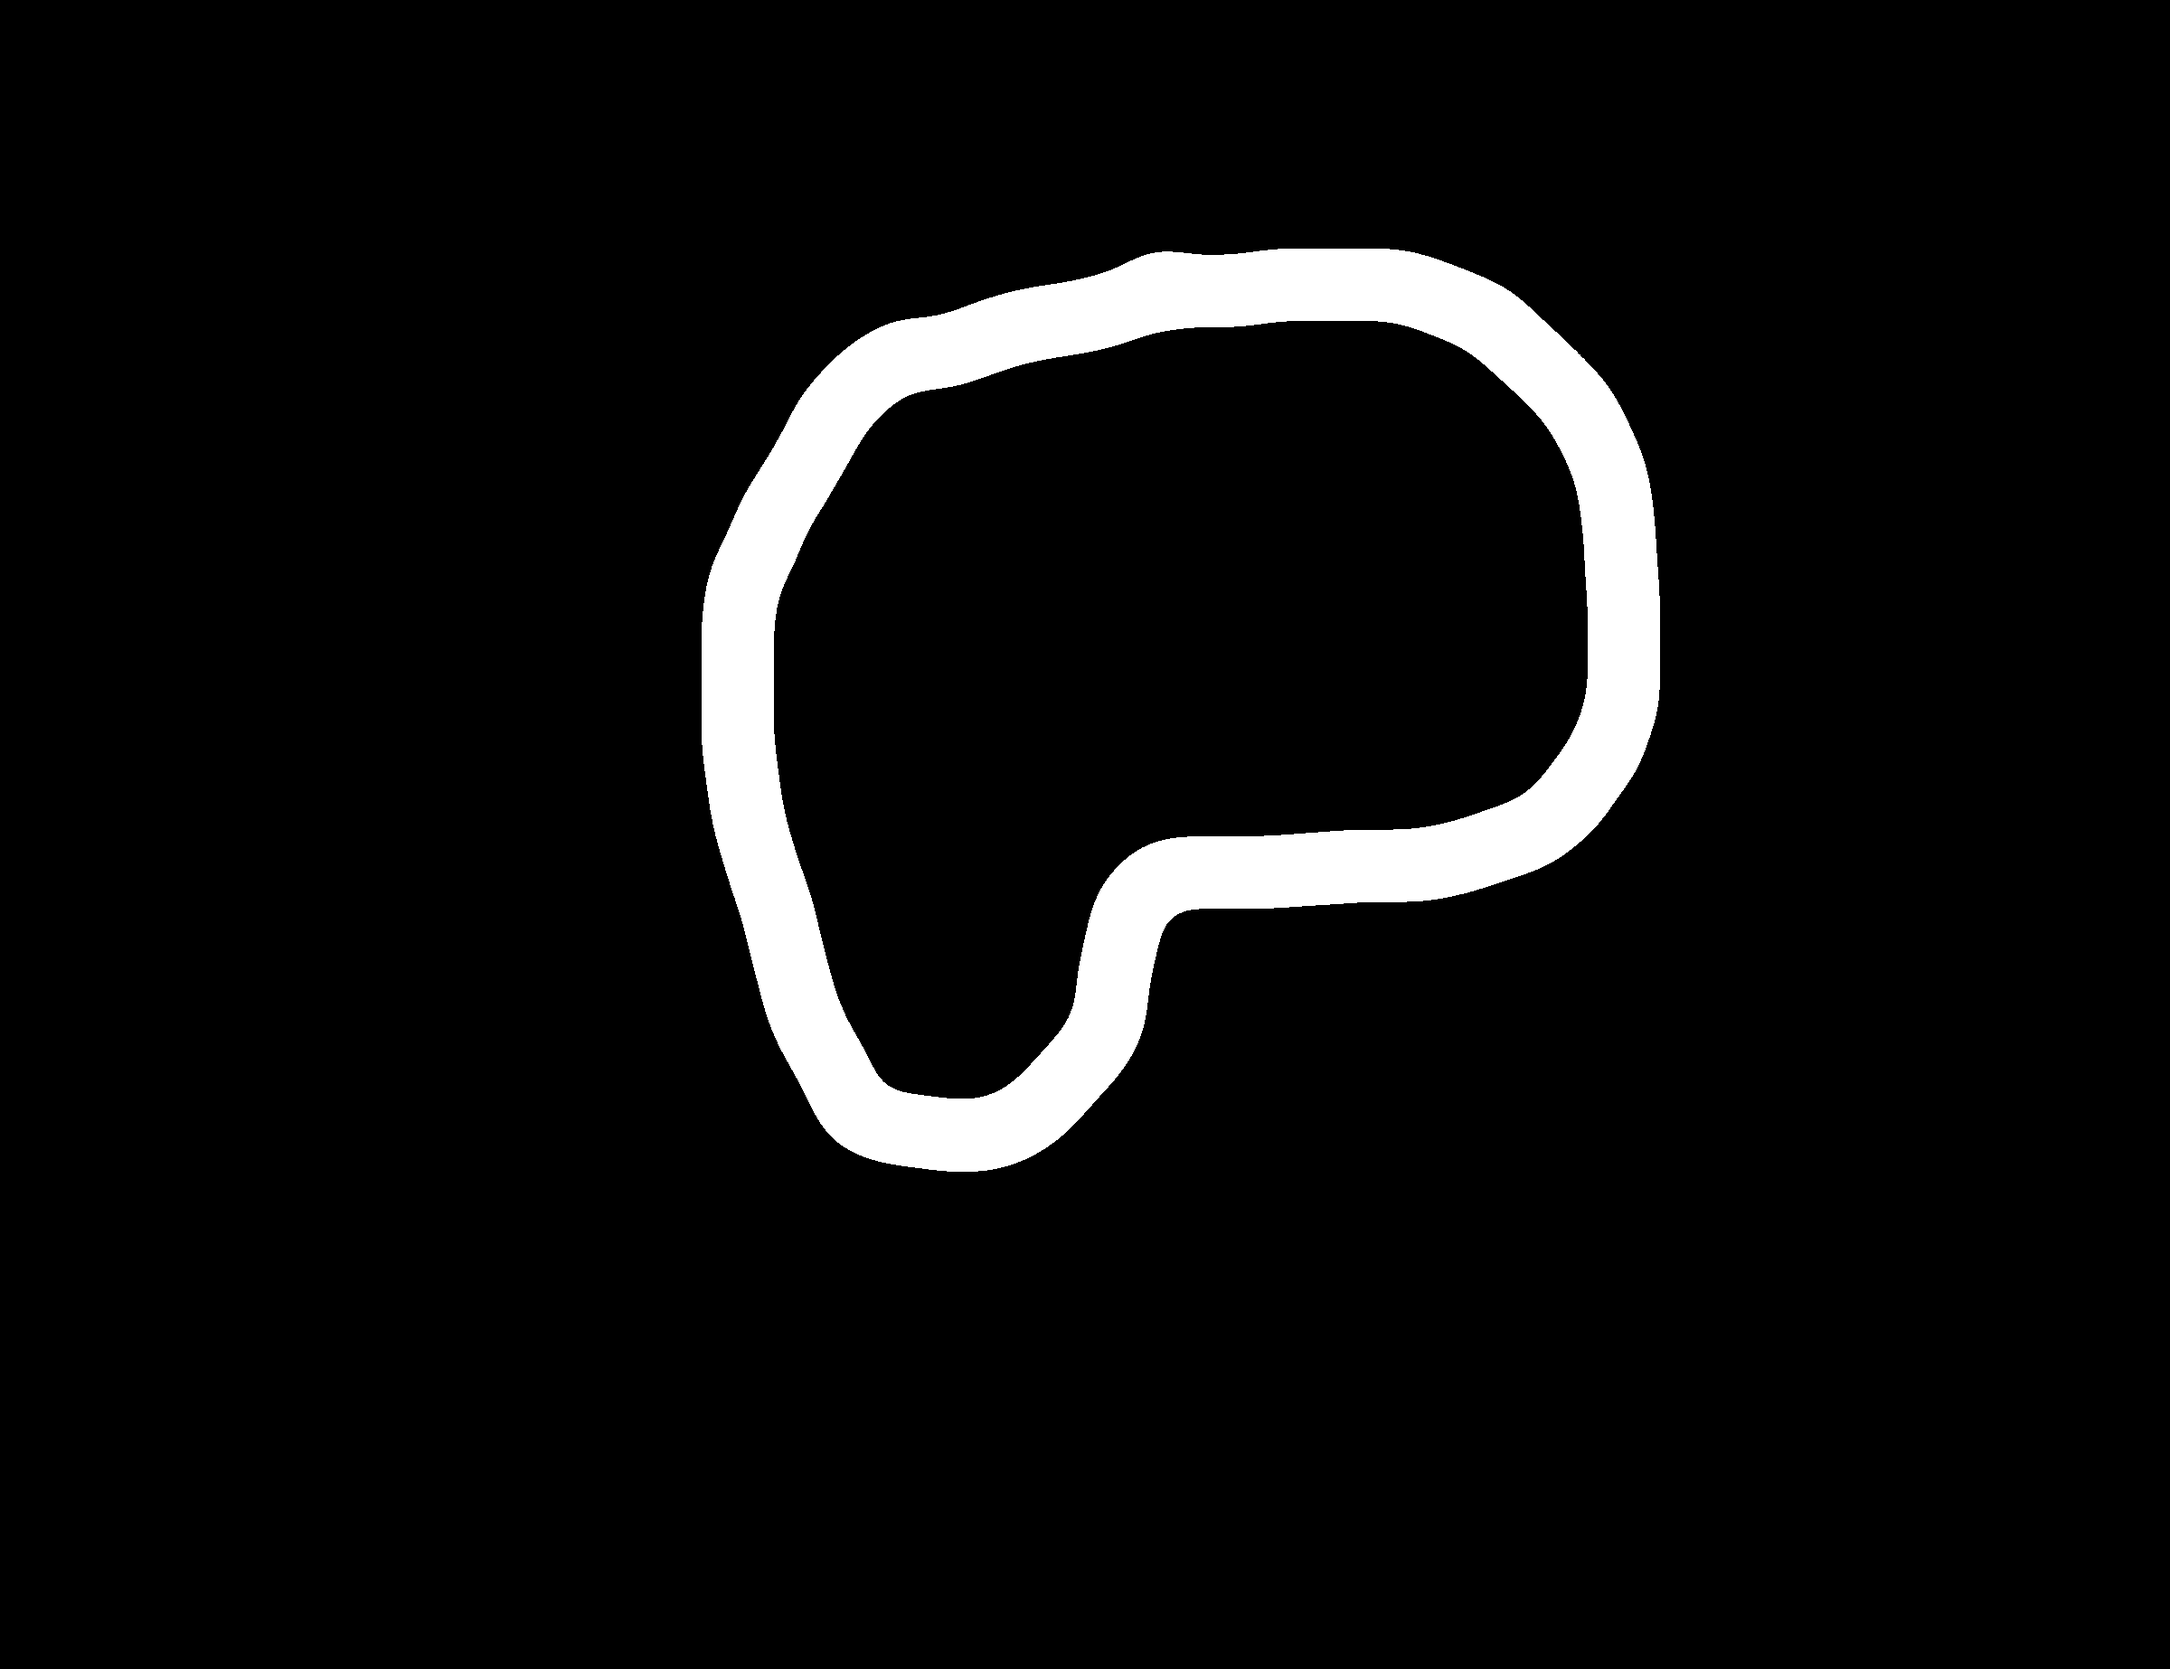
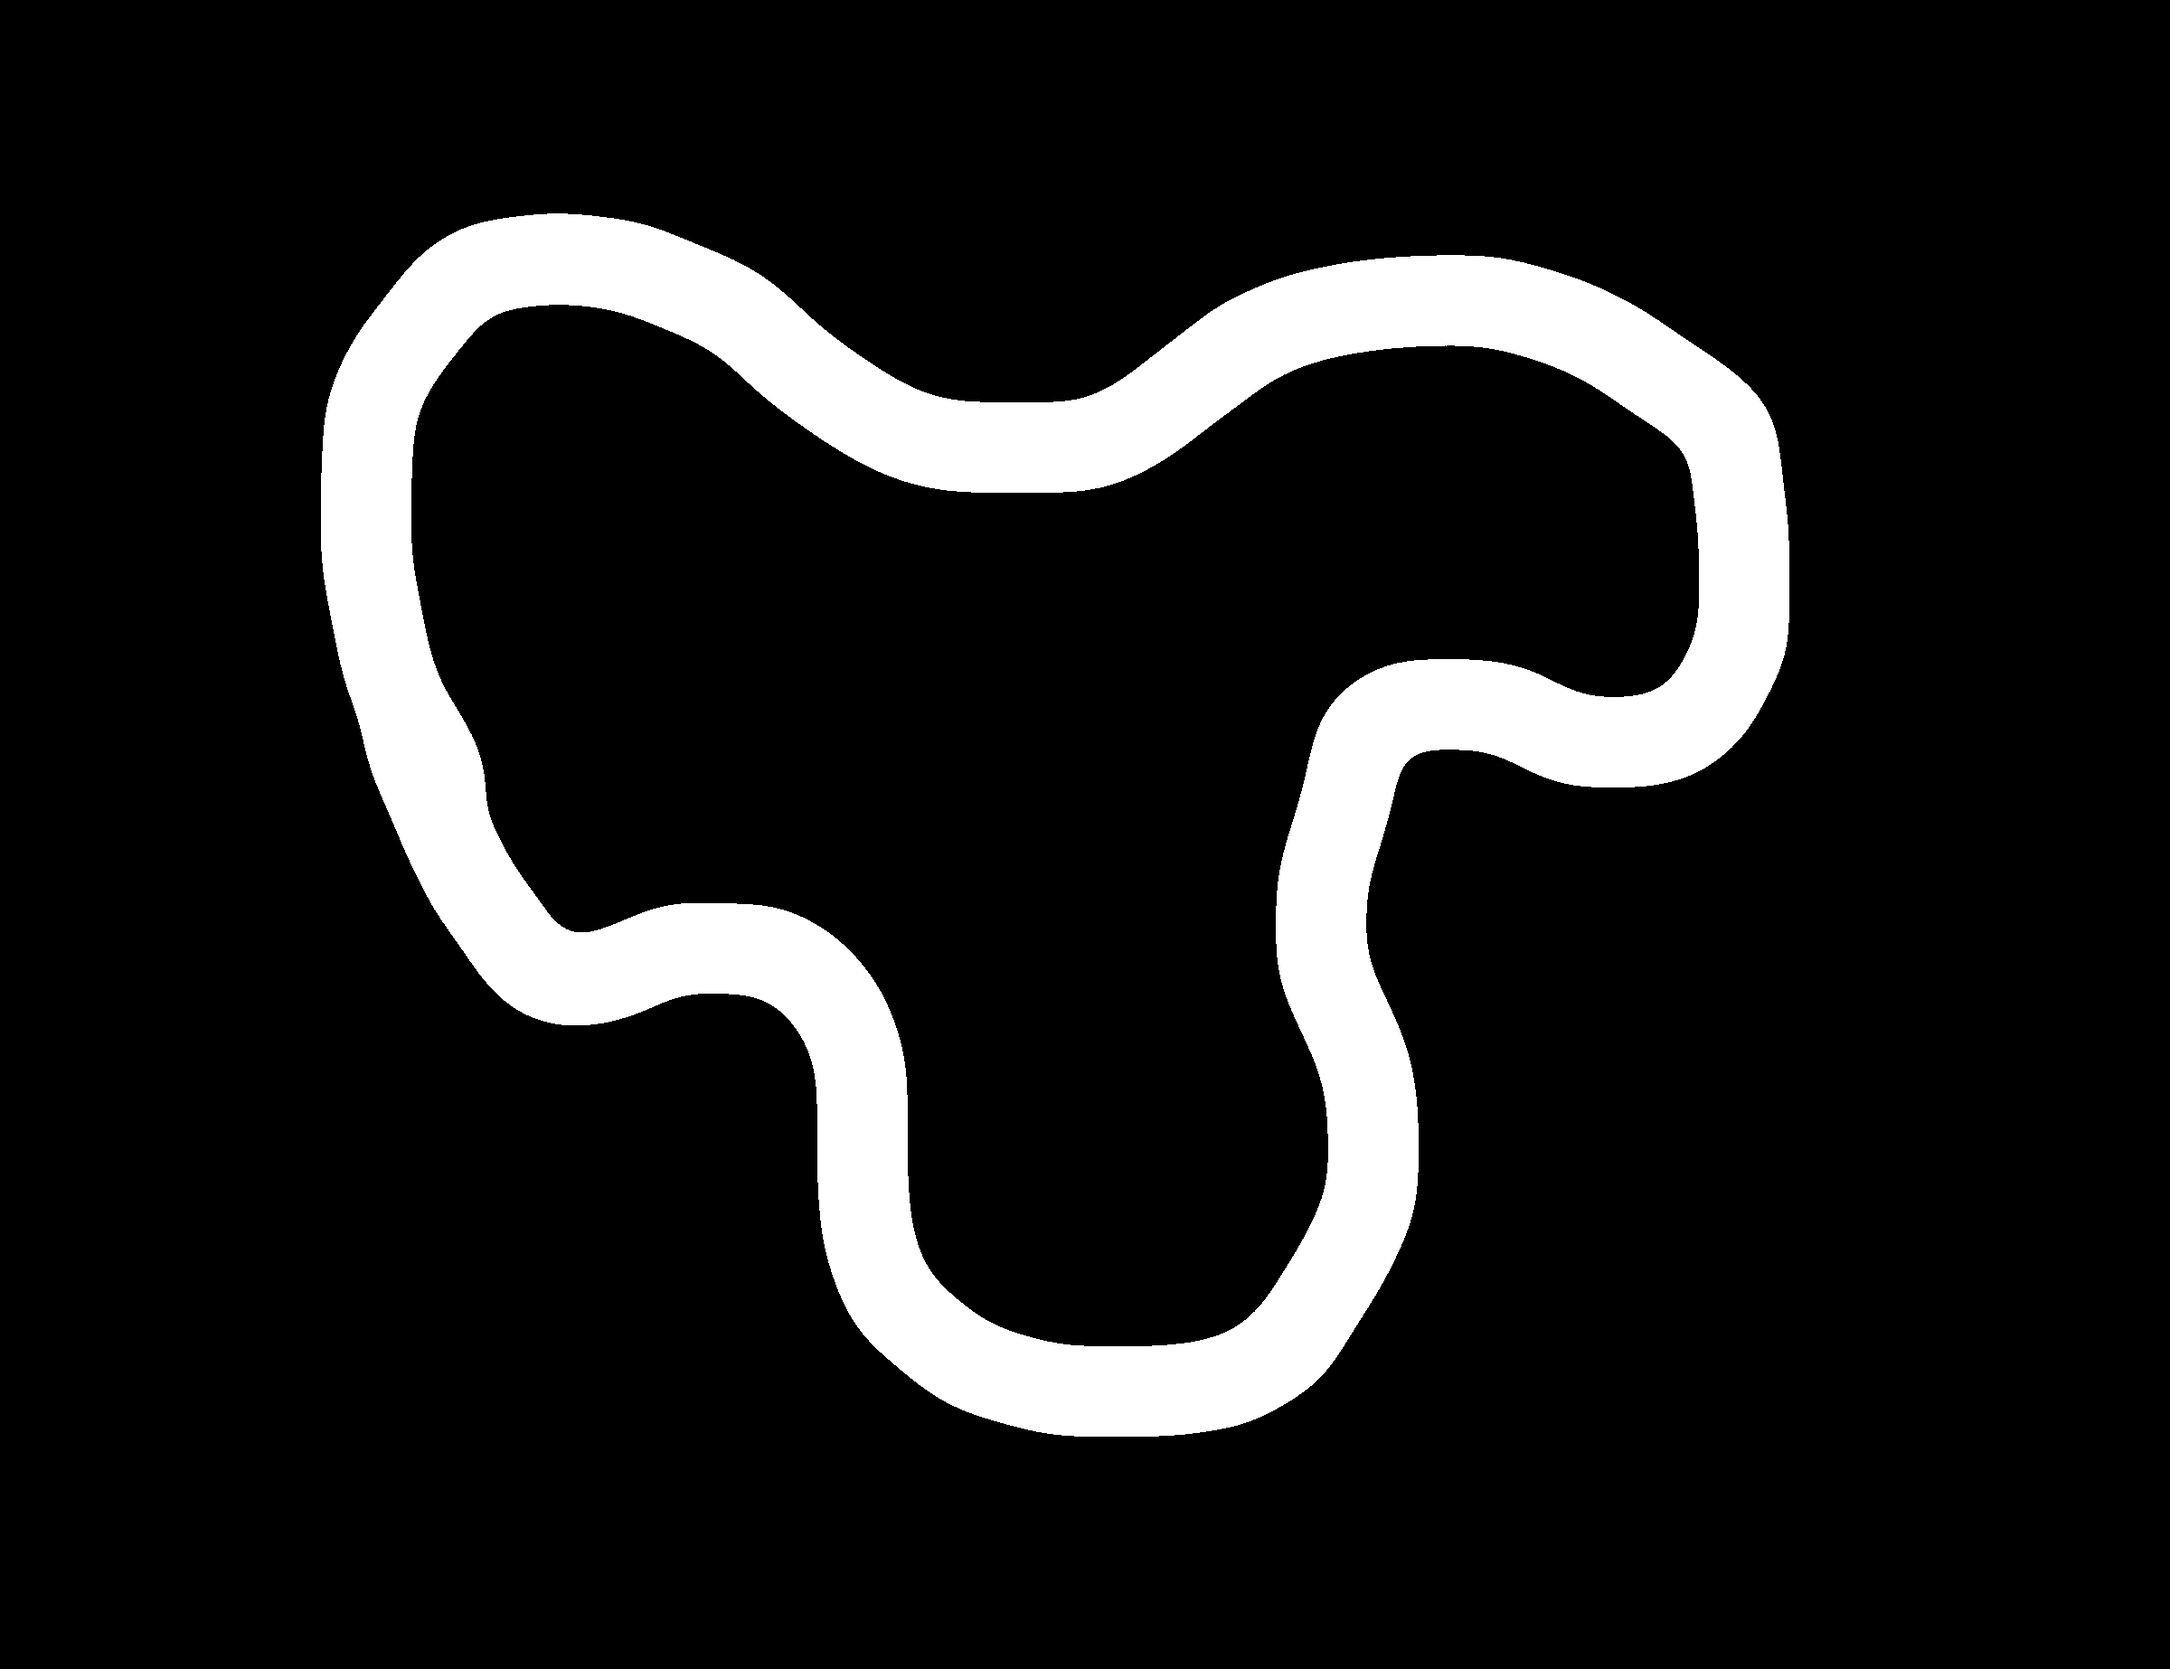
ajout de map plus compliqué

Changed region(s): [[0.125, 0.1235, 0.8438, 0.8646]]

diff --git a/microROS_ece_pl/simu_lidar_auto.py b/microROS_ece_pl/simu_lidar_auto.py
@@ -42,8 +42,8 @@ server_sock.bind(('127.0.0.1', 5005))
 server_sock.listen(1)
 server_sock.setblocking(False)
 
-robot_pos, robot_th = [270.0, 250.0], 0.0
-start_pos = [270.0, 250.0]  # 🎯 POINT DE DÉPART - pour comparaison visuelle
+robot_pos, robot_th = [150.0, 250.0], 0.0
+start_pos = [150.0, 250.0]  # 🎯 POINT DE DÉPART - pour comparaison visuelle
 lidar_conn = None
 
 # --- PARAMÈTRES AUTONOMIE (EXACTEMENT wall_centering_node) ---

diff --git a/microROS_ece_pl/create_bw_image.py b/microROS_ece_pl/create_bw_image.py
@@ -2,7 +2,7 @@ from PIL import Image
 import numpy as np
 
 # Charge l'image existante
-img = Image.open('pngegg.png').convert('RGB')
+img = Image.open('image2.png').convert('RGB')
 arr = np.array(img, dtype=np.uint8, copy=True)
 
 # Seuils pour noir/blanc
